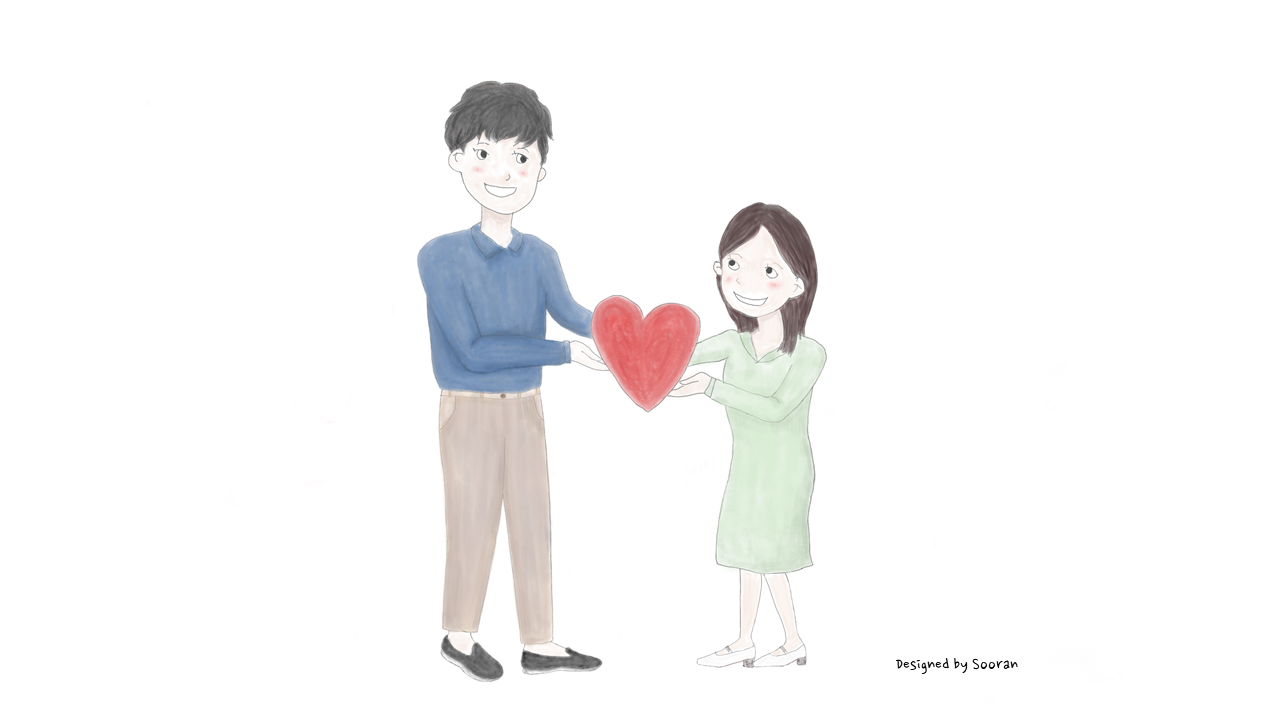
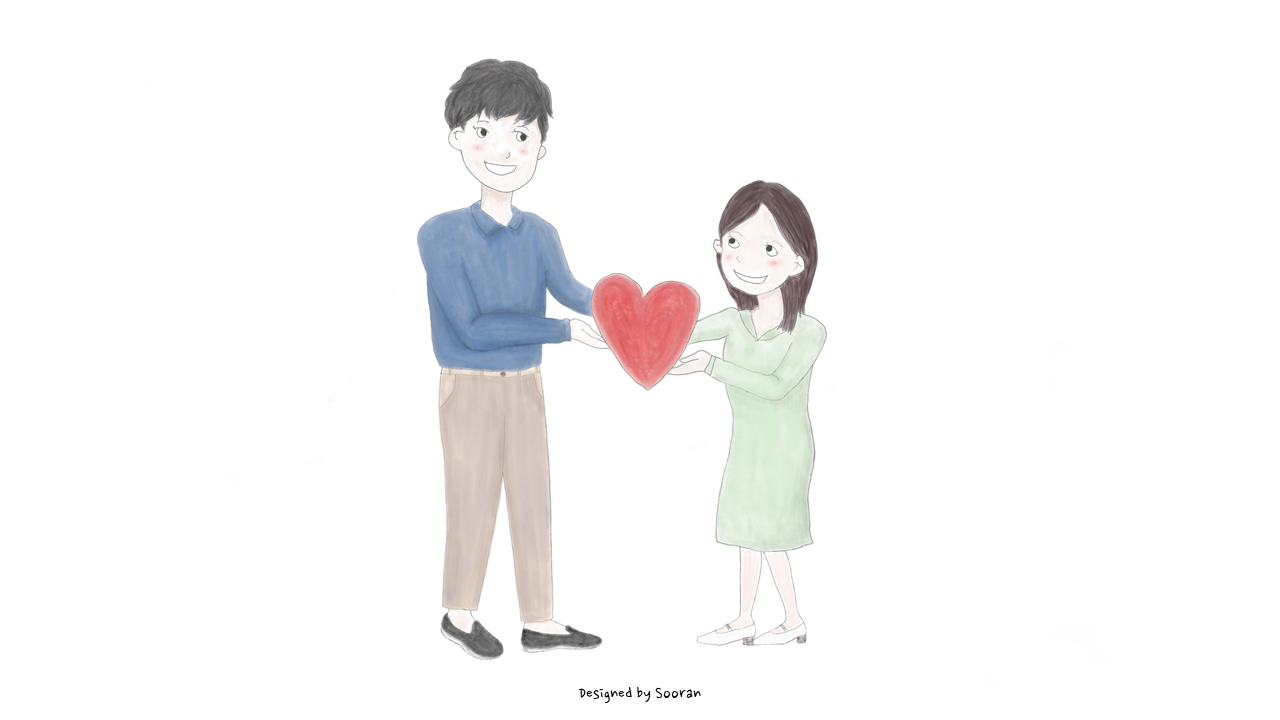
main 이미지 사이즈 조정

diff --git a/index.html b/index.html
@@ -146,7 +146,7 @@
                     <!-- <div class="col-sm-12 col-md-offset-2 col-md-8 text-center"> -->
                     <div class="col-sm-12 col-md-12 text-center">
                         <div class="photo-item frame-border">
-                            <img src="./images/main.png" alt="">
+                            <img src="./images/main.png" alt="" style='height: 500px;object-fit: cover;'>
                         </div>
                     </div>
                 </div>
